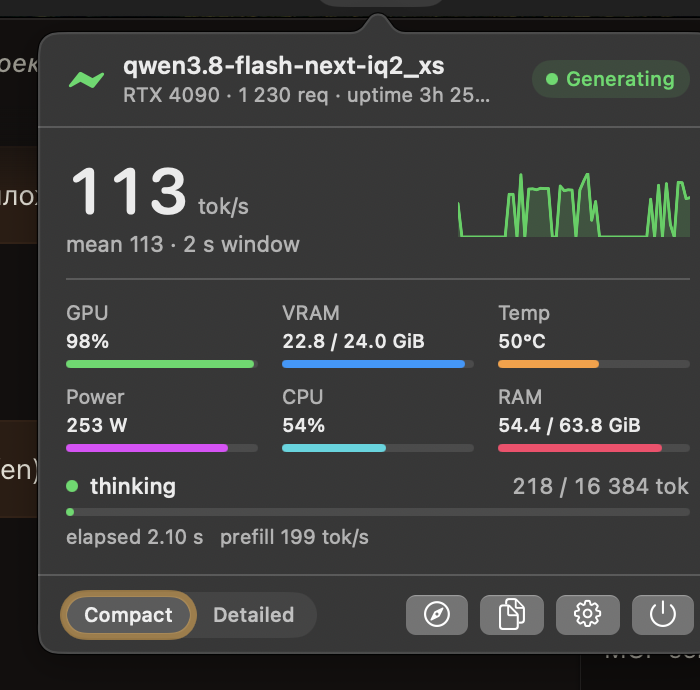
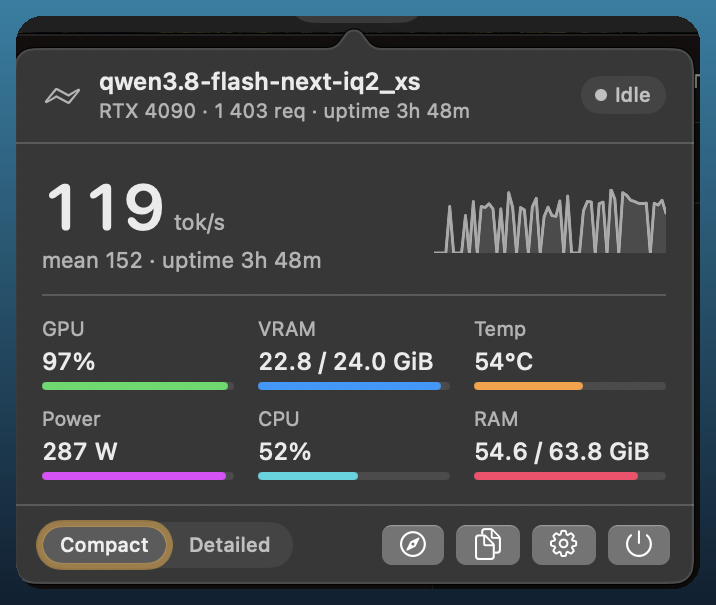
[feat/e2e] clean screenshots, --settings flag, version 1.0.1

diff --git a/Sources/StrataMonitor/Views/MenuBarPanelView.swift b/Sources/StrataMonitor/Views/MenuBarPanelView.swift
@@ -3,7 +3,6 @@ import StrataMonitorKit
 
 struct MenuBarPanelView: View {
     @EnvironmentObject var model: MonitorModel
-    @State private var showSettings = false
 
     var body: some View {
         VStack(spacing: 0) {
@@ -11,8 +10,8 @@ struct MenuBarPanelView: View {
             Divider()
             if model.needsSetup {
                 SetupView()
-            } else if showSettings {
-                SettingsView(showSettings: $showSettings)
+            } else if model.showSettings {
+                SettingsView()
             } else if model.detailLevel == .compact {
                 CompactView()
             } else {
@@ -111,9 +110,9 @@ struct MenuBarPanelView: View {
             .help(model.t("action.copy"))
 
             Button {
-                withAnimation { showSettings.toggle() }
+                withAnimation { model.showSettings.toggle() }
             } label: {
-                Image(systemName: showSettings ? "chevron.left" : "gearshape")
+                Image(systemName: model.showSettings ? "chevron.left" : "gearshape")
             }
             .help(model.t("action.settings"))
 

diff --git a/Sources/StrataMonitor/AppDelegate.swift b/Sources/StrataMonitor/AppDelegate.swift
@@ -31,6 +31,14 @@ final class AppDelegate: NSObject, NSApplicationDelegate {
         model.markConnecting()
         updateStatusItem()
         startPolling()
+
+        // Запуск с --settings сразу открывает панель с настройками.
+        if CommandLine.arguments.contains("--settings") {
+            model.showSettings = true
+            DispatchQueue.main.asyncAfter(deadline: .now() + 0.8) { [weak self] in
+                self?.openPanel()
+            }
+        }
     }
 
     func applicationWillTerminate(_ notification: Notification) {
@@ -77,6 +85,10 @@ final class AppDelegate: NSObject, NSApplicationDelegate {
             popover.performClose(nil)
             return
         }
+        openPanel()
+    }
+
+    private func openPanel() {
         NSApp.activate(ignoringOtherApps: true)
         guard let button = statusItem.button else { return }
         popover.show(relativeTo: button.bounds, of: button, preferredEdge: .minY)

diff --git a/Sources/StrataMonitorKit/MonitorModel.swift b/Sources/StrataMonitorKit/MonitorModel.swift
@@ -57,6 +57,8 @@ public final class MonitorModel: ObservableObject {
     @Published public var menubarFormat: MenubarFormat { didSet { persist() } }
     @Published public var detailLevel: DetailLevel { didSet { persist() } }
     @Published public var language: AppLanguage { didSet { persist() } }
+    /// Открыть панель сразу с настройками (ключ --settings при запуске).
+    @Published public var showSettings = false
 
     private enum Key {
         static let endpoint = "endpoint"

diff --git a/Sources/StrataMonitor/Views/SettingsView.swift b/Sources/StrataMonitor/Views/SettingsView.swift
@@ -3,7 +3,6 @@ import StrataMonitorKit
 
 struct SettingsView: View {
     @EnvironmentObject var model: MonitorModel
-    @Binding var showSettings: Bool
 
     @State private var endpointDraft: String = ""
     @State private var launchAtLogin = false

diff --git a/scripts/clean-screenshot.py b/scripts/clean-screenshot.py
@@ -1,0 +1,104 @@
+#!/usr/bin/env python3
+"""Вырезает поповер из скриншота и ставит его на чистый фон.
+
+Скриншоты меню-бара снимаются с рабочего стола, за окном видны чужие окна.
+Скрипт находит границы поповера по цвету его фона, вырезает его и собирает
+кадр на однотонном фоне в цветах иконки приложения.
+
+    python3 scripts/clean-screenshot.py in.png out.png
+"""
+import sys
+from collections import Counter
+from PIL import Image, ImageDraw
+
+BG_TOP = (59, 126, 161)
+BG_BOTTOM = (18, 32, 48)
+margin = 16
+
+
+PANEL_COLOR = (55, 55, 55)   # фон поповера macOS
+
+
+def find_panel(image: Image.Image):
+    """Ищет прямоугольник поповера по сплошному фоновому цвету."""
+    px = image.load()
+    w, h = image.size
+
+    rows = []
+    for y in range(h):
+        run = longest_run(px, y, w, PANEL_COLOR, 120)
+        if run:
+            rows.append((y, run))
+    if not rows:
+        return None
+
+    top = rows[0][0]
+    bottom = rows[-1][0]
+    left = min(r[1][0] for r in rows)
+    right = max(r[1][1] for r in rows)
+    box = (left, top, right, bottom)
+    if (right - left) > w * 0.985 or (bottom - top) > h * 0.985:
+        return None
+    return box
+
+
+def close(pixel, color, tolerance=4):
+    return all(abs(pixel[i] - color[i]) <= tolerance for i in range(3))
+
+
+def longest_run(px, y, w, color, minimum):
+    """Самый длинный ряд пикселей заданного цвета в строке (с допуском)."""
+    best = (0, 0)
+    start = None
+    for x in range(w):
+        if close(px[x, y], color):
+            if start is None:
+                start = x
+        else:
+            if start is not None and x - start >= minimum:
+                if x - start > best[1] - best[0]:
+                    best = (start, x - 1)
+            start = None
+    if start is not None and w - start >= minimum and w - start > best[1] - best[0]:
+        best = (start, w - 1)
+    return best if best[1] > best[0] else None
+
+
+def gradient(size):
+    canvas = Image.new('RGB', size)
+    draw = ImageDraw.Draw(canvas)
+    for y in range(size[1]):
+        t = y / max(size[1] - 1, 1)
+        color = tuple(int(BG_TOP[i] + (BG_BOTTOM[i] - BG_TOP[i]) * t) for i in range(3))
+        draw.line([(0, y), (size[0], y)], fill=color)
+    return canvas
+
+
+def main(src: str, dst: str):
+    image = Image.open(src).convert('RGB')
+    box = find_panel(image)
+    if box is None:
+        print('не нашёл поповер, копирую как есть')
+        image.save(dst)
+        return
+
+    x0, y0, x1, y1 = box
+    pad = 8
+    x0, y0 = max(0, x0), max(0, y0)
+    x1, y1 = min(image.width - 1, x1 + pad), min(image.height - 1, y1 + pad)
+    crop = image.crop((x0, y0, x1 + 1, y1 + 1))
+    w, h = crop.size
+
+    mask = Image.new('L', (w, h), 0)
+    draw = ImageDraw.Draw(mask)
+    radius = 26
+    draw.rounded_rectangle([0, 0, w - 1, h - 1], radius=radius, fill=255)
+
+    canvas = gradient((w + 2 * margin, h + 2 * margin))
+    canvas.paste(crop, (margin, margin), mask)
+    canvas.save(dst)
+    print(f'{src} -> {dst}: панель {w}x{h}, кадр {canvas.size[0]}x{canvas.size[1]}')
+
+
+if __name__ == '__main__':
+    main(sys.argv[1], sys.argv[2])

diff --git a/README.md b/README.md
@@ -133,6 +133,17 @@ swift test               # unit tests (parsing of a real /metrics payload)
 swift scripts/make-icon.swift   # regenerate Resources/AppIcon.icns
 ```
 
+Useful flags:
+
+```bash
+# one-shot metrics snapshot in stdout (diagnostics)
+./dist/StrataMonitor.app/Contents/MacOS/StrataMonitor --dump
+STRATA_ENDPOINT=http://other-host:12388/metrics ... --dump
+
+# start with the settings panel open
+open -a dist/StrataMonitor.app --args --settings
+```
+
 The project has two targets:
 
 - `StrataMonitorKit` — metrics client, JSON parsing, state model and the ru/en
@@ -142,6 +153,10 @@ The project has two targets:
 The menu bar item is drawn with AppKit (`NSStatusItem`) rather than
 `MenuBarExtra`, because a menu bar label has to combine an SF Symbol with a
 monospaced number.
+
+The screenshots in `docs/` are produced by `scripts/clean-screenshot.py`: it
+cuts the popover out of a screen capture and puts it on a clean gradient, so
+no other windows leak into the picture.
 
 ## License
 
